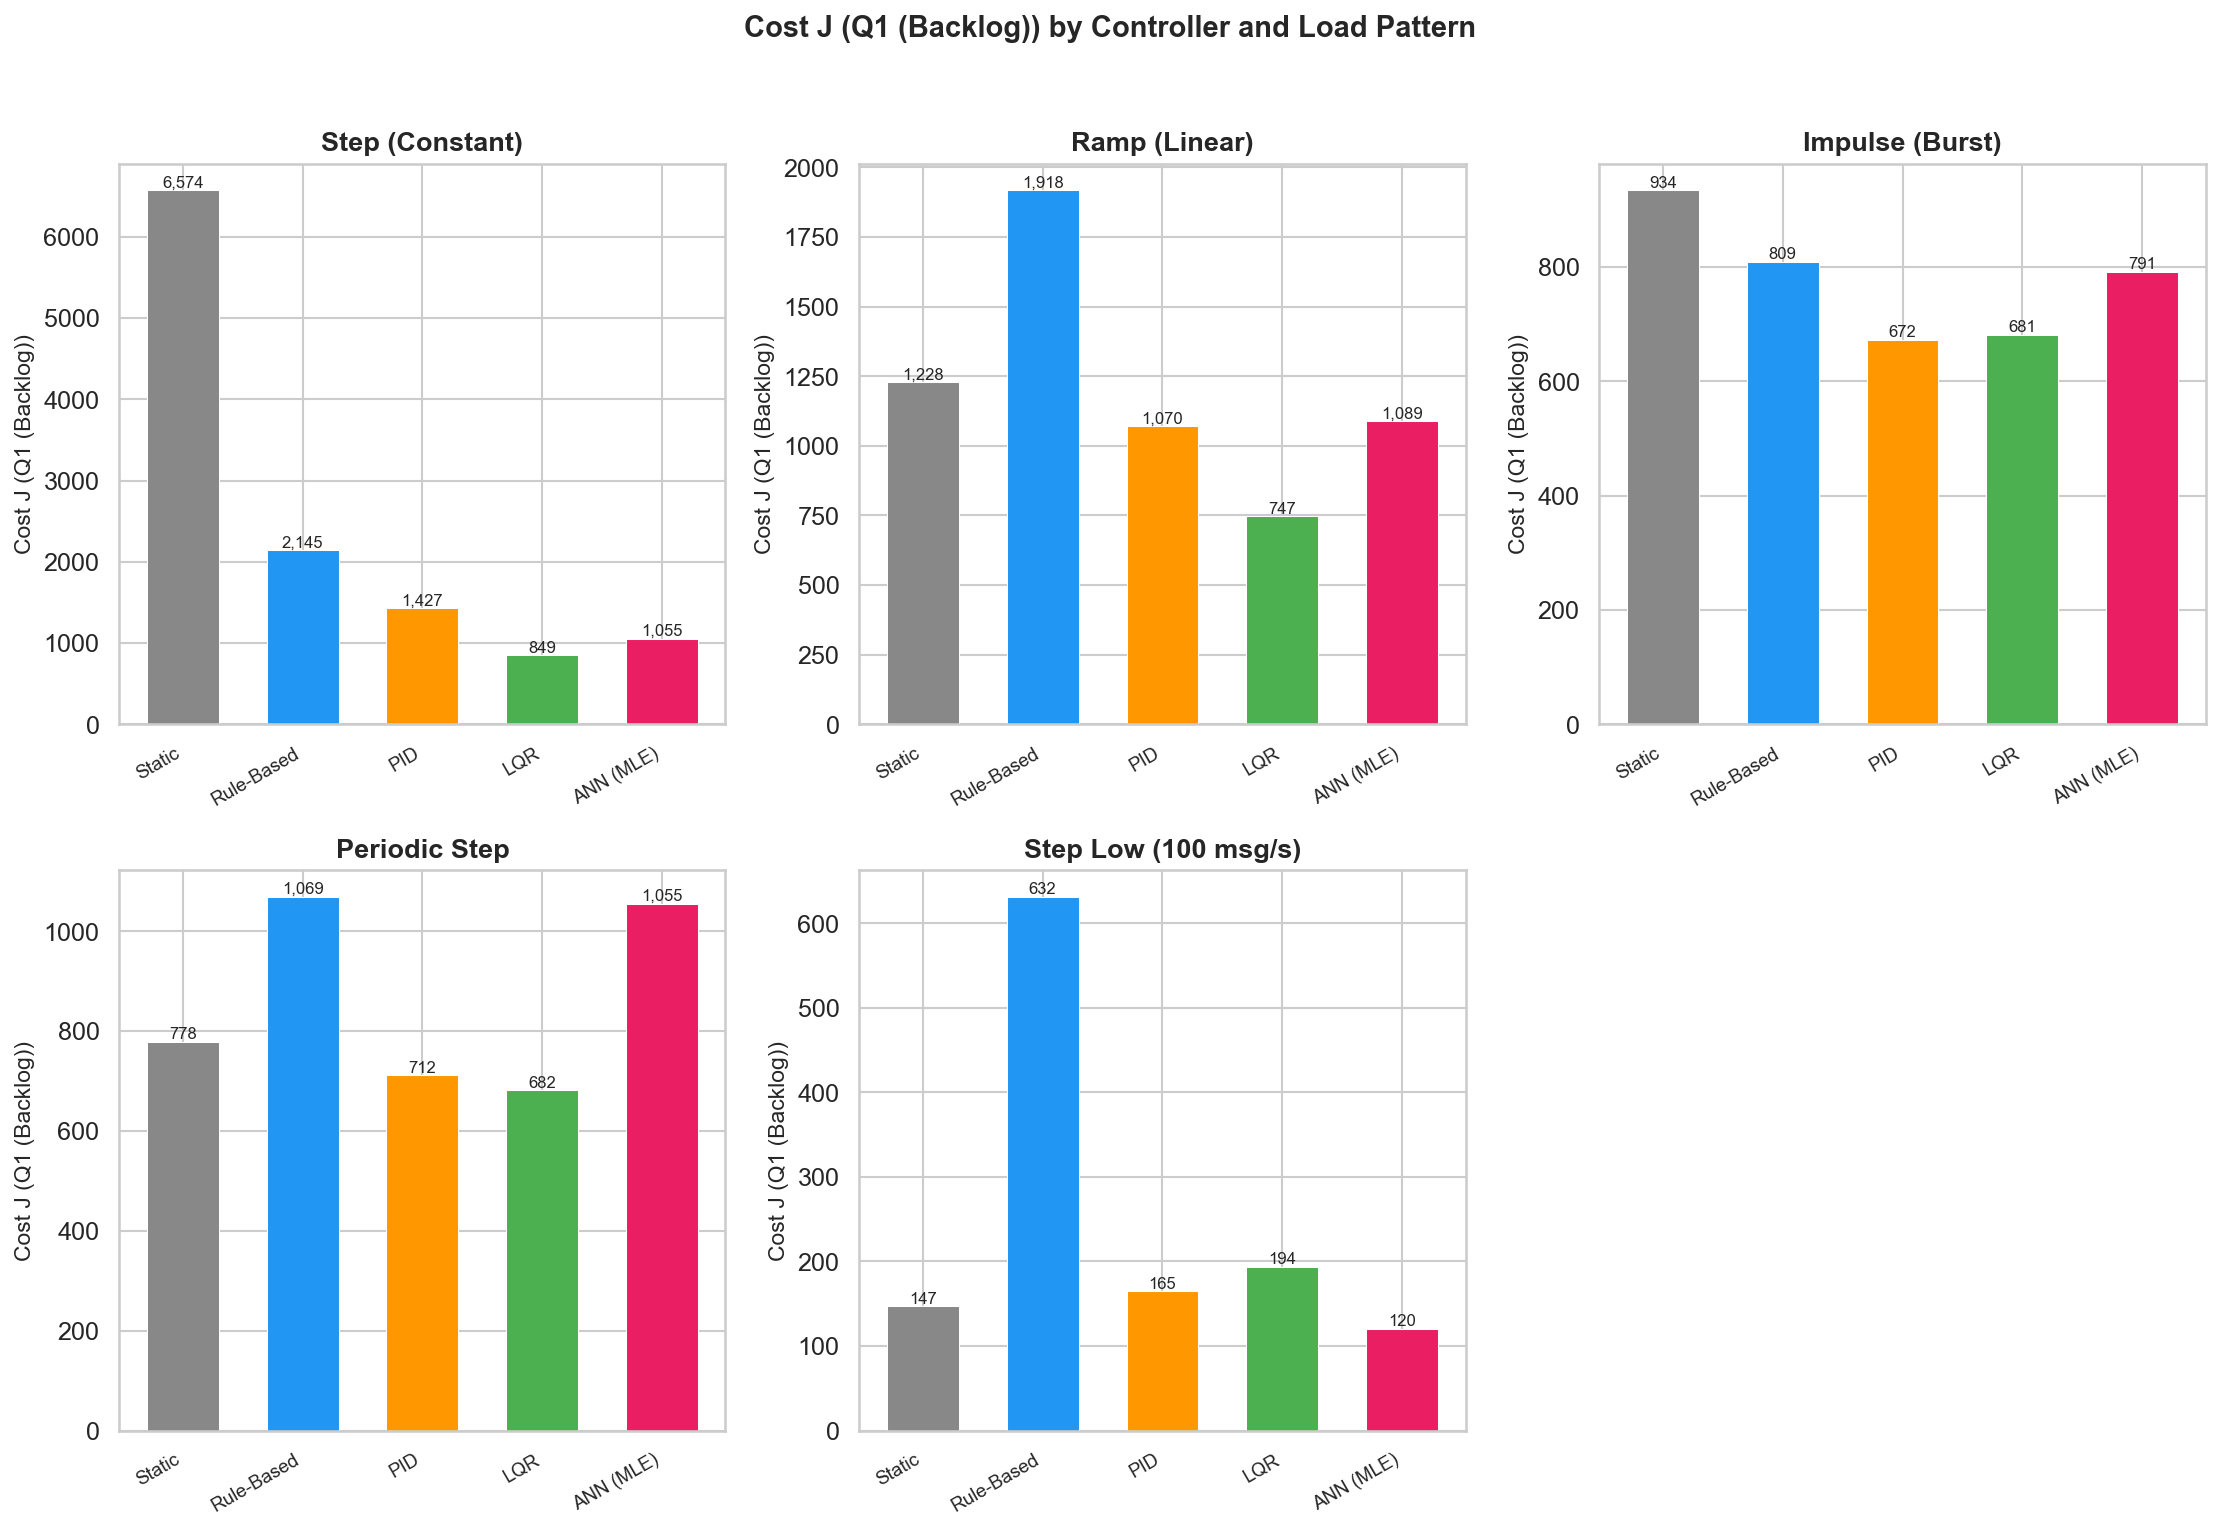
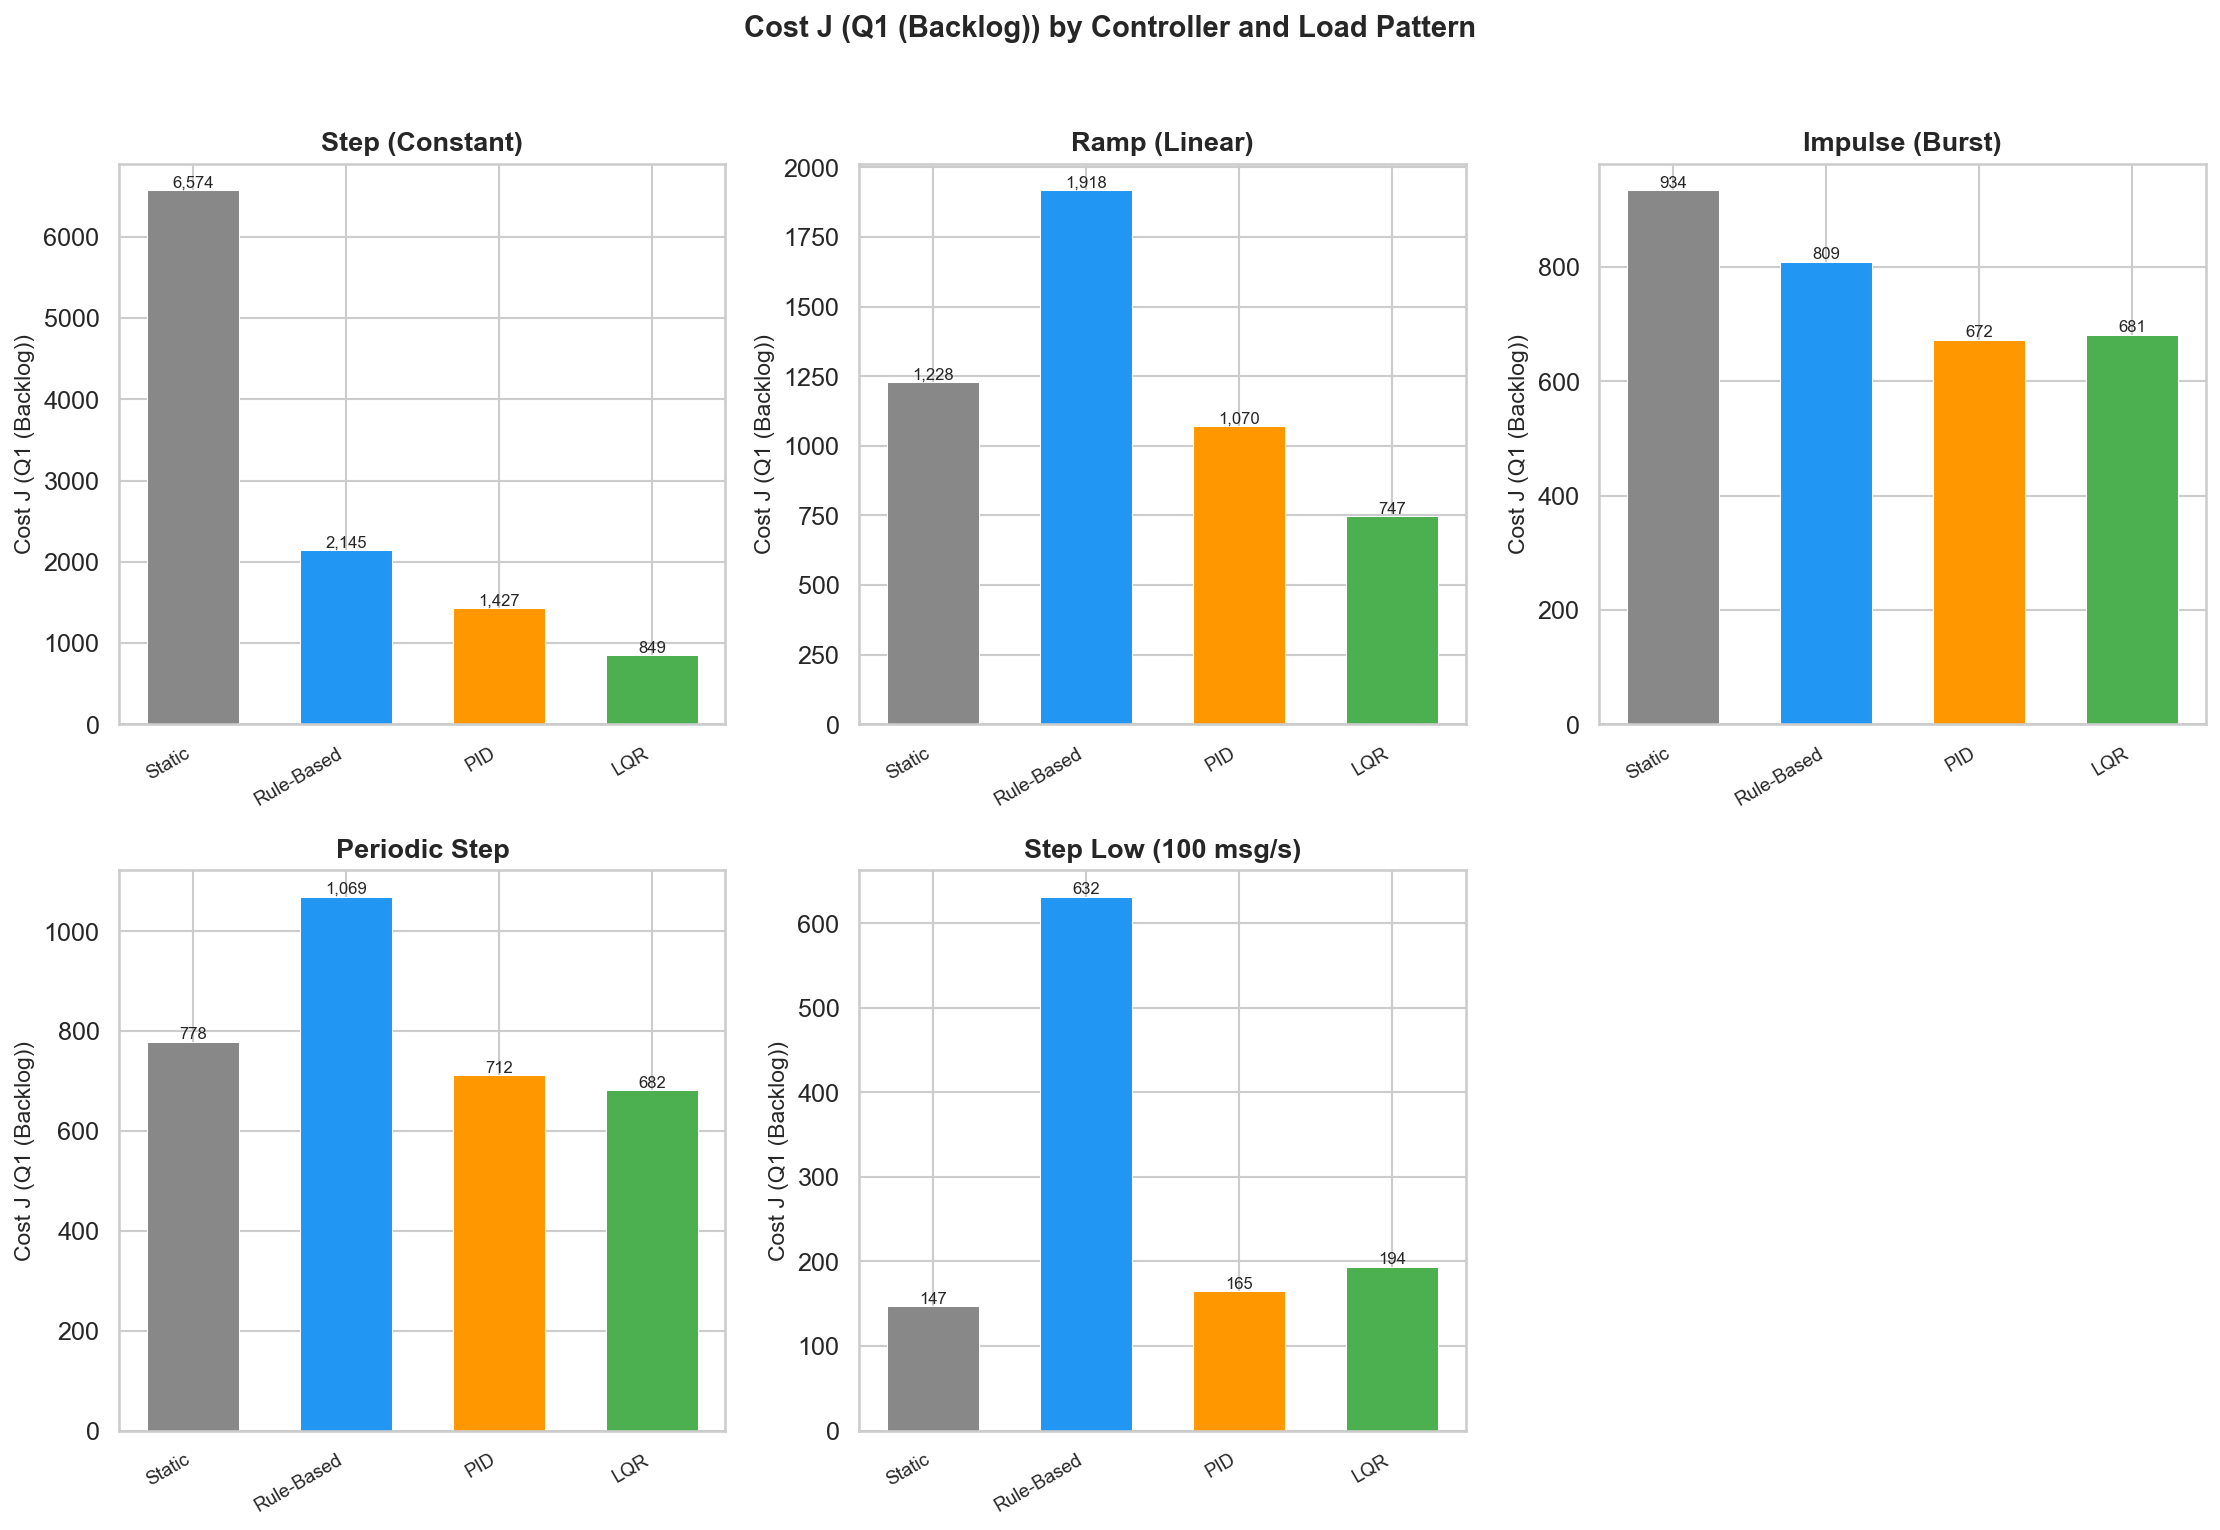
add mem usage

diff --git a/src/chapters/chapter-4.tex b/src/chapters/chapter-4.tex
@@ -744,21 +744,32 @@ Gambar~\ref{fig:state-across-q} menunjukkan rata-rata variabel sistem untuk selu
 pada tiga preset $Q$ yang berbeda, dengan baseline ditampilkan sebagai garis putus-putus
 karena nilainya konstan terhadap $Q$.
 
+Gambar~\ref{fig:state-across-q-lqr} menampilkan bagaimana LQR menyesuaikan variabel
+sistem saat preset $Q$ berubah.
+
 \begin{figure}[H]
     \centering
     \includegraphics[width=\textwidth]{IV_R4__state_across_q_full.png}
-    \caption{Rata-rata variabel sistem per kontroler pada tiga preset $Q$ (sumber daya penuh)}
-    \label{fig:state-across-q}
+    \caption{Rata-rata variabel sistem LQR pada tiga preset $Q$ (sumber daya penuh)}
+    \label{fig:state-across-q-lqr}
 \end{figure}
 
-LQR menanggapi setiap preset $Q$ dengan menggeser titik kerja sesuai prioritas, sementara
-Statik, Rule-Based, dan PID tetap konstan karena tidak terhubung dengan matriks biaya.
+LQR menanggapi setiap preset $Q$ dengan menggeser titik kerja sesuai prioritas.
 LQR-Q1 yang mengutamakan antrean menjaga latensi paling rendah, sedangkan LQR-Q2 yang
-menonjolkan bobot sumber daya menarik CPU dan operasi tulis ke titik terendah meskipun
-mengorbankan latensi sedikit. LQR-Q3 berada di antara keduanya, mengonfirmasi bahwa
-pergeseran prioritas $Q$ dapat dipetakan secara prediktif ke perilaku kontrol.
+menonjolkan bobot sumber daya menarik CPU ke titik terendah meskipun latensi sedikit
+naik. LQR-Q3 berada di antara keduanya, mengonfirmasi bahwa pergeseran prioritas $Q$
+dapat dipetakan secara prediktif ke perilaku kontrol.
 
-Kontroler Statik, Rule-Based, dan PID tampil sebagai garis horizontal karena perilakunya
+Gambar~\ref{fig:state-across-q-baseline} menampilkan kontroler lain sebagai perbandingan.
+
+\begin{figure}[H]
+    \centering
+    \includegraphics[width=\textwidth]{IV_R4b__state_across_q_baseline.png}
+    \caption{Rata-rata variabel sistem kontroler non-Q-aware pada tiga preset $Q$ (sumber daya penuh)}
+    \label{fig:state-across-q-baseline}
+\end{figure}
+
+Statik, Rule-Based, dan PID tampil sebagai garis datar karena perilakunya
 tidak ditentukan oleh $Q$.
 Ketiganya tidak memiliki mekanisme untuk menyerap perubahan prioritas, sehingga menghasilkan
 nilai variabel sistem yang sama untuk seluruh preset.
@@ -766,9 +777,9 @@ Inilah yang menjadi nilai utama LQR sebagai kontroler berbasis fungsi biaya, yai
 implementasi dapat dikonfigurasi ulang untuk prioritas yang berbeda hanya dengan mengganti
 matriks $Q$.
 
-Variabel utilisasi memori tidak ditampilkan karena pembacaan dari kontainer Elasticsearch
-menghasilkan nilai nol pada eksperimen ini, sehingga tidak dapat digunakan untuk membandingkan
-adaptasi antar kontroler.
+Utilisasi memori berhasil terbaca dengan rata-rata 45--50\% namun tidak ditampilkan pada
+grafik ini karena variasinya sangat kecil antar kontroler dan hampir tidak dipengaruhi
+oleh perubahan preset $Q$, sehingga tidak memberikan informasi pembeda yang berarti.
 
 \subsection{Robustness Lintas Mesin dan Konfigurasi}
 \label{sec:robustness}
